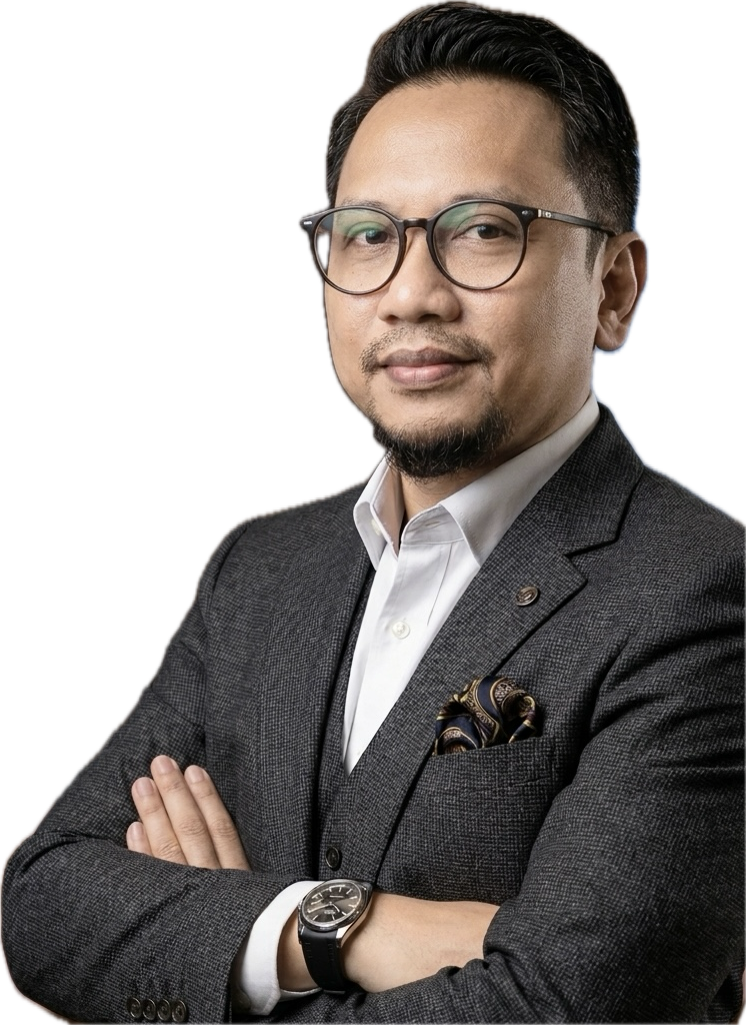
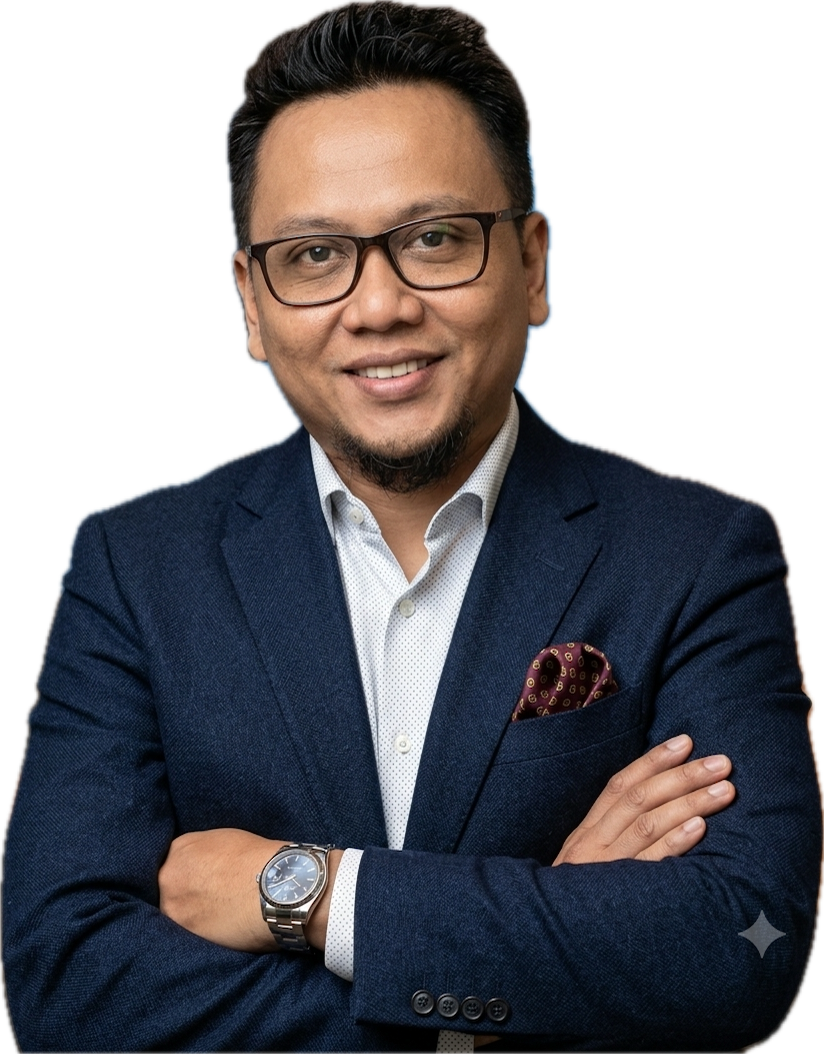
Revise Profile Picture

diff --git a/main_site/static/style.css b/main_site/static/style.css
@@ -67,8 +67,8 @@ p {
 
 /* 1. This is your perfect circle and border */
 .circle-container {
-    width: 150px;
-    height: 150px;
+    width: 200px;
+    height: 200px;
     border-radius: 50%;
     border: 0.05rem solid whitesmoke;
     background-color: whitesmoke;
@@ -81,9 +81,9 @@ p {
 
 /* 2. This forces the image to fill the circle perfectly */
 .circle-container img {
-    width: 100%;
-    height: 120%;
-    margin-left: 40px;
+    width: 150%;
+    height: 100%;
+    margin-left: 50px;
     object-fit: fill;       /* Prevents stretching */
     size: 0cap;
 }

diff --git a/main_site/templates/base.html b/main_site/templates/base.html
@@ -6,7 +6,7 @@
     <meta name="viewport" content="width=device-width, initial-scale=1.0">
     <title>{% block title %}{% if is_react_app %}React App | {% endif %}Arch-notions{% endblock %}</title>
     <link rel="icon" href="{% static 'favicon.ico' %}">
-    <link rel="stylesheet" href="{% static 'style.css' %}?v=0.1.2">
+    <link rel="stylesheet" href="{% static 'style.css' %}?v=0.1.4">
     {% block extra_head %}{% endblock %}
 </head>
 